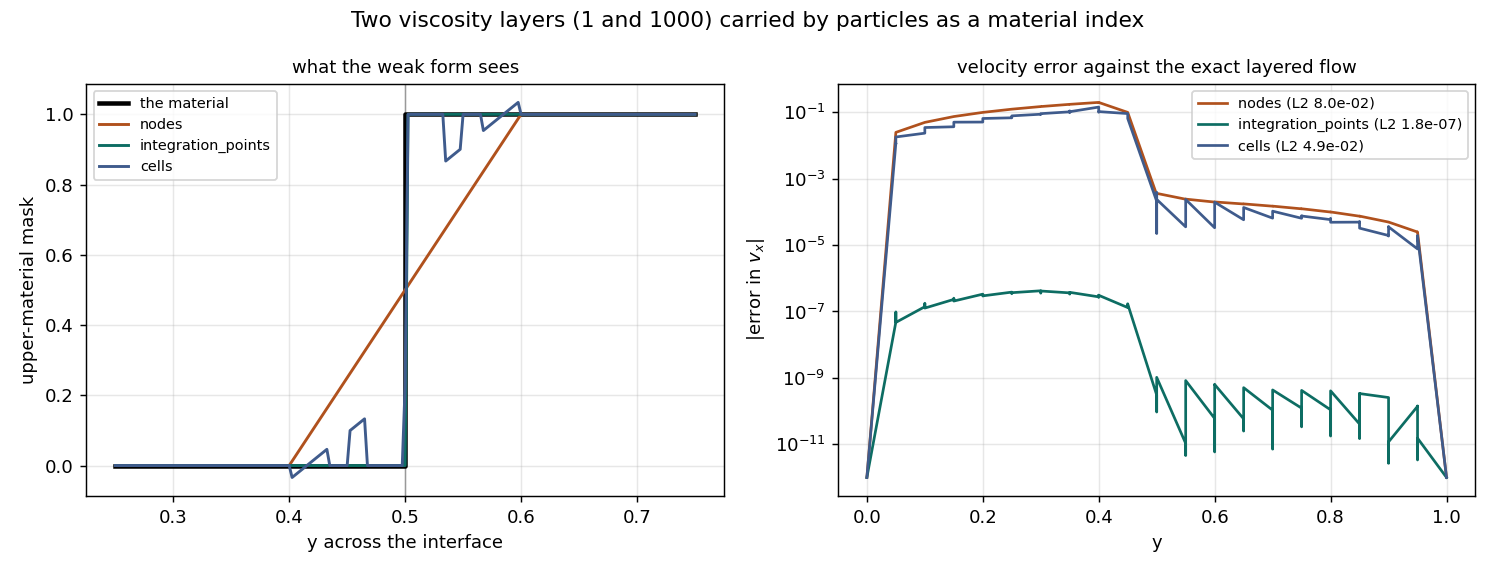
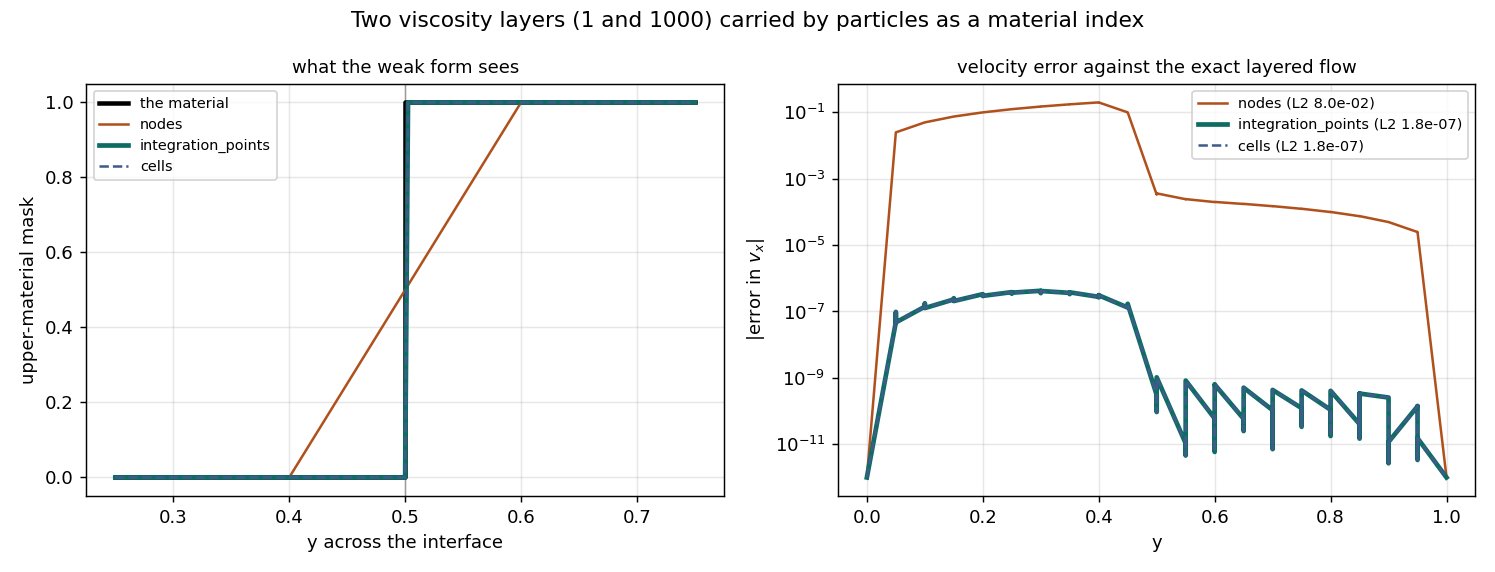
Review (#715): IndexSwarmVariable stored the wrong proxy_location; four review findings
The base SwarmVariable constructor sets _proxy_location from its own default
and runs AFTER the subclass assignment, so an IndexSwarmVariable built with
proxy_location="integration_points" stored "nodes" and the new fill never
dispatched: the level sets were the right kind of variable, filled by the
nodal inverse-distance algorithm. Assign after super().__init__.

Re-measured with the dispatch live, the layered Couette test changes for the
better: with the interface on mesh edges every particle in a cell is on one
side, so the per-cell fit is constant and "cells" is exact too (1.8e-7, was
4.9e-2 through the nodal algorithm). The distinction shows in the cut-cell
case, now documented: only the integration-point mapping improves with
particle density (3.5e-2 to 1.9e-2 from 10 to 55 particles per cell, against
8.4e-2 to 7.7e-2 for nodes and 4.1e-2 flat for cells).

Copilot's findings, all fixed: the starved-rank guard was `local_size <= 1`,
but one particle is a well-defined nearest-particle answer, so only a rank
with none is starved; `nearest="M"` iterated the characters of the string;
two documented example paths were missing the intermediate/ directory; and
an example comment credited `nearest=` for what happens automatically for
integer variables.

Underworld development team with AI support from Claude Code

Claude-Session: https://claude.ai/code/session_01MSGAFeA7qYXgkuw9ud8F2G

diff --git a/src/underworld3/swarm.py b/src/underworld3/swarm.py
@@ -2412,7 +2412,6 @@ class IndexSwarmVariable(SwarmVariable):
                 "proxy_location must be 'nodes', 'integration_points' or 'cells', "
                 f"not {proxy_location!r}"
             )
-        self._proxy_location = proxy_location
         self._cell_projector = None
         self.nnn = npoints
         self.radius_s = radius  # **2 # changed to radius
@@ -2433,6 +2432,11 @@ class IndexSwarmVariable(SwarmVariable):
             _proxy=False,
             varsymbol=varsymbol,
         )
+        # AFTER super().__init__, which sets _proxy_location from its own
+        # default (this class does not forward the argument, since the base
+        # single-proxy _meshVar is not built here at all).
+        self._proxy_location = proxy_location
+
         # The indices variable defines how many "level set" maps we create as components in the proxy variable
 
         import sympy
@@ -2687,7 +2691,11 @@ class IndexSwarmVariable(SwarmVariable):
 
         # Collective read/write sequence: every rank walks the same variables
         # (only the values differ), as in the nodal path's starved-rank guard.
-        starved = self.swarm.local_size <= 1
+        # One particle is enough here, unlike the nodal path's weighted
+        # average: the nearest-particle answer is well defined from a single
+        # particle, and the cell fit falls back to its patch. Only a rank with
+        # NO particles has nothing to say.
+        starved = self.swarm.local_size < 1
         if starved:
             if self.swarm._population_generation > 0:
                 import warnings
@@ -5087,7 +5095,7 @@ class Swarm(Stateful, uw_object):
         order : {0, 1}, optional
             RBF reconstruction order for new particles: 0 bounded (default),
             1 linear-exact.
-        nearest : list, optional
+        nearest : variable, name, or list of them, optional
             Variables (or names) a new particle takes whole from its nearest
             existing neighbour instead of by reconstruction. INTEGER-valued
             variables are always in this set: a material index is a label, and
@@ -5180,8 +5188,11 @@ class Swarm(Stateful, uw_object):
                     np.asarray(new_coords), nnn=nnn, p=2, order=rbf_order)
                 _, nearest_row = tree.query(np.asarray(new_coords), k=1)
                 nearest_row = np.asarray(nearest_row).reshape(-1)
+            nearest_spec = nearest or ()
+            if isinstance(nearest_spec, str) or not hasattr(nearest_spec, "__iter__"):
+                nearest_spec = (nearest_spec,)          # a bare name or variable
             nearest_set = set()
-            for item in (nearest or ()):
+            for item in nearest_spec:
                 nearest_set.add(item if isinstance(item, str) else getattr(item, "clean_name", item))
             # raw values of every variable at the old particles, BEFORE the add
             raw_old = {}

diff --git a/tests/test_0071_index_swarm_proxy_location.py b/tests/test_0071_index_swarm_proxy_location.py
@@ -135,3 +135,41 @@ def test_population_control_keeps_an_extending_box_sampled():
     from mpi4py import MPI
     assert uw.mpi.comm.allreduce(counts[True], op=MPI.SUM) == 0, counts
     assert uw.mpi.comm.allreduce(counts[False], op=MPI.SUM) > 0, counts
+
+
+def test_nearest_accepts_a_bare_name_and_a_single_particle_rank_is_not_starved():
+    """`nearest="F"` names one variable, not five characters; and one particle
+    is enough for the nearest-particle mapping (only a rank with none is)."""
+    mesh = uw.meshing.UnstructuredSimplexBox(cellSize=0.2, qdegree=2)
+    swarm = uw.swarm.Swarm(mesh)
+    flag = uw.swarm.SwarmVariable("Flag", swarm, 1)
+    swarm.populate(fill_param=3)
+    X = np.asarray(swarm._particle_coordinates.data)
+    with uw.synchronised_array_update():
+        flag.data[:, 0] = (X[:, 0] > 0.5).astype(float)
+    for i in np.sort(np.nonzero(X[:, 0] < 0.4)[0])[::-1]:
+        swarm.dm.removePointAtIndex(int(i))
+    swarm._invalidate_canonical_data()
+    swarm.repopulate(nearest="Flag")
+    vals = np.asarray(flag.data[:, 0])
+    if vals.shape[0] > 0:                        # a float field, kept as a label
+        assert set(np.unique(vals).tolist()) <= {0.0, 1.0}, np.unique(vals)
+
+    # one particle: the nearest-particle mapping is still well defined
+    mesh2 = uw.meshing.UnstructuredSimplexBox(cellSize=0.35, qdegree=2)
+    swarm2 = uw.swarm.Swarm(mesh2)
+    mat = uw.swarm.IndexSwarmVariable("One", swarm2, indices=2,
+                                      proxy_location="integration_points")
+    swarm2.populate(fill_param=2)
+    keep = 1 if swarm2.local_size > 0 else 0
+    for i in range(swarm2.local_size - 1, keep - 1, -1):
+        swarm2.dm.removePointAtIndex(int(i))
+    swarm2._invalidate_canonical_data()
+    if swarm2.local_size == 1:
+        with uw.synchronised_array_update():
+            mat.data[:, 0] = 1
+    mat._proxy_stale = True
+    mat._update_proxy_if_stale()
+    d = np.asarray(mat._meshLevelSetVars[1].data[:, 0])
+    if swarm2.local_size == 1:
+        assert np.allclose(d, 1.0), d[:5]        # every point takes that particle

diff --git a/docs/examples/utilities/intermediate/Ex_Swarm_Population_Control.py b/docs/examples/utilities/intermediate/Ex_Swarm_Population_Control.py
@@ -67,8 +67,9 @@ with uw.synchronised_array_update():
     M.data[:, 0] = (np.abs(X0[:, 1]) < 0.2).astype(int)   # a central layer
 
 if POPCTL:
-    # Refill starved cells. Material of a new particle: its nearest neighbour's
-    # (an index is not an average), which is what `nearest=` selects.
+    # Refill starved cells. A new particle takes the material of its nearest
+    # neighbour: repopulate() does that for any INTEGER variable without being
+    # asked, because the average of two material labels is not a label.
     swarm.population_control = dict(min_per_cell=6)
 
 c0, c1 = mesh.dm.getHeightStratum(0)

diff --git a/docs/advanced/particle-population-and-materials.md b/docs/advanced/particle-population-and-materials.md
@@ -55,7 +55,7 @@ costs accuracy.
 
 ### Demonstration
 
-`docs/examples/utilities/Ex_Swarm_Population_Control.py`. Pure-shear extension
+`docs/examples/utilities/intermediate/Ex_Swarm_Population_Control.py`. Pure-shear extension
 $\mathbf{v} = (x, -y)$ on a fixed mesh, so the side walls are outflow and the
 top and bottom are inflow, with a marker layer through the middle. Particles
 that leave are deleted (`mesh.return_coords_to_bounds = None`), which is what
@@ -110,7 +110,7 @@ material = uw.swarm.IndexSwarmVariable(
 
 ### Demonstration
 
-`docs/examples/utilities/Ex_Swarm_Material_Index.py`. Two viscosity layers,
+`docs/examples/utilities/intermediate/Ex_Swarm_Material_Index.py`. Two viscosity layers,
 1 and 1000, carried as a material index and driven from the top. With the
 interface on mesh edges the exact velocity is piecewise linear and lies in the
 P2 velocity space, so the only error in the solve is how the material is
@@ -120,26 +120,44 @@ represented.
 :alt: The material mask across the interface and the resulting velocity error
 
 Left: the upper-material mask along a line crossing the interface, as the weak
-form sees it. The nodal level set ramps linearly across a whole cell. At the
-integration points it is a step in the right place. Right: the resulting error
-in the velocity against the exact layered flow.
+form sees it. The nodal level set ramps linearly across a whole cell; the other
+two are a step in the right place and lie on top of each other. Right: the
+resulting error in the velocity against the exact layered flow.
 ```
 
 | `proxy_location` | assembled $\int \eta$ (exact 500.5) | velocity $L_2$ error |
 |---|---|---|
 | `"nodes"` | 500.5000 | 8.0e-2 |
 | `"integration_points"` | 500.5000 | **1.8e-7** |
-| `"cells"` | 500.5000 | 4.9e-2 |
+| `"cells"` | 500.5000 | **1.8e-7** |
 
 All three integrate the viscosity correctly in the mean, which is why the
-error does not show up in a bulk diagnostic. Only the integration-point
-mapping puts the viscosity contrast in the right place, and it solves the
-layered problem to solver tolerance.
+error does not show up in a bulk diagnostic. Only the placement differs, and
+the placement is what the solve feels. Every particle in a cell is on the same
+side of an edge-aligned interface, so the per-cell fit is constant and the
+`"cells"` mapping is exact here too.
 
-The `"cells"` option is the one to reach for when the material property needs
-a gradient (the level sets are polynomials, and can be differentiated) or when
-the field is a fraction rather than a label. For a pure material index at an
-interface, `"integration_points"` is the sharper of the two.
+### When the interface cuts through a cell
+
+Move the interface to $y = 0.53$ on an irregular mesh and no scheme can be
+exact: the P2 velocity cannot hold a kink inside a cell. What separates them
+is whether adding particles helps.
+
+| `proxy_location` | $L_2$ error, 10 particles per cell | 55 per cell |
+|---|---|---|
+| `"nodes"` | 8.4e-2 | 7.7e-2 |
+| `"integration_points"` | 3.5e-2 | **1.9e-2** |
+| `"cells"` | 4.1e-2 | 4.1e-2 |
+
+The integration-point mapping resolves the interface within the cell, so it
+improves as the particles do. The other two are limited by what a cell-scale
+representation can express, and adding particles does not move them.
+
+Use `"cells"` when the material property needs a gradient (the level sets are
+polynomials and can be differentiated) or when the field is genuinely a
+fraction rather than a label; note that a fitted fraction can leave $[0, 1]$
+between cells even though its own degrees of freedom are clamped. For a
+material index at an interface, `"integration_points"` is the one to use.
 
 ## What this rests on
 
